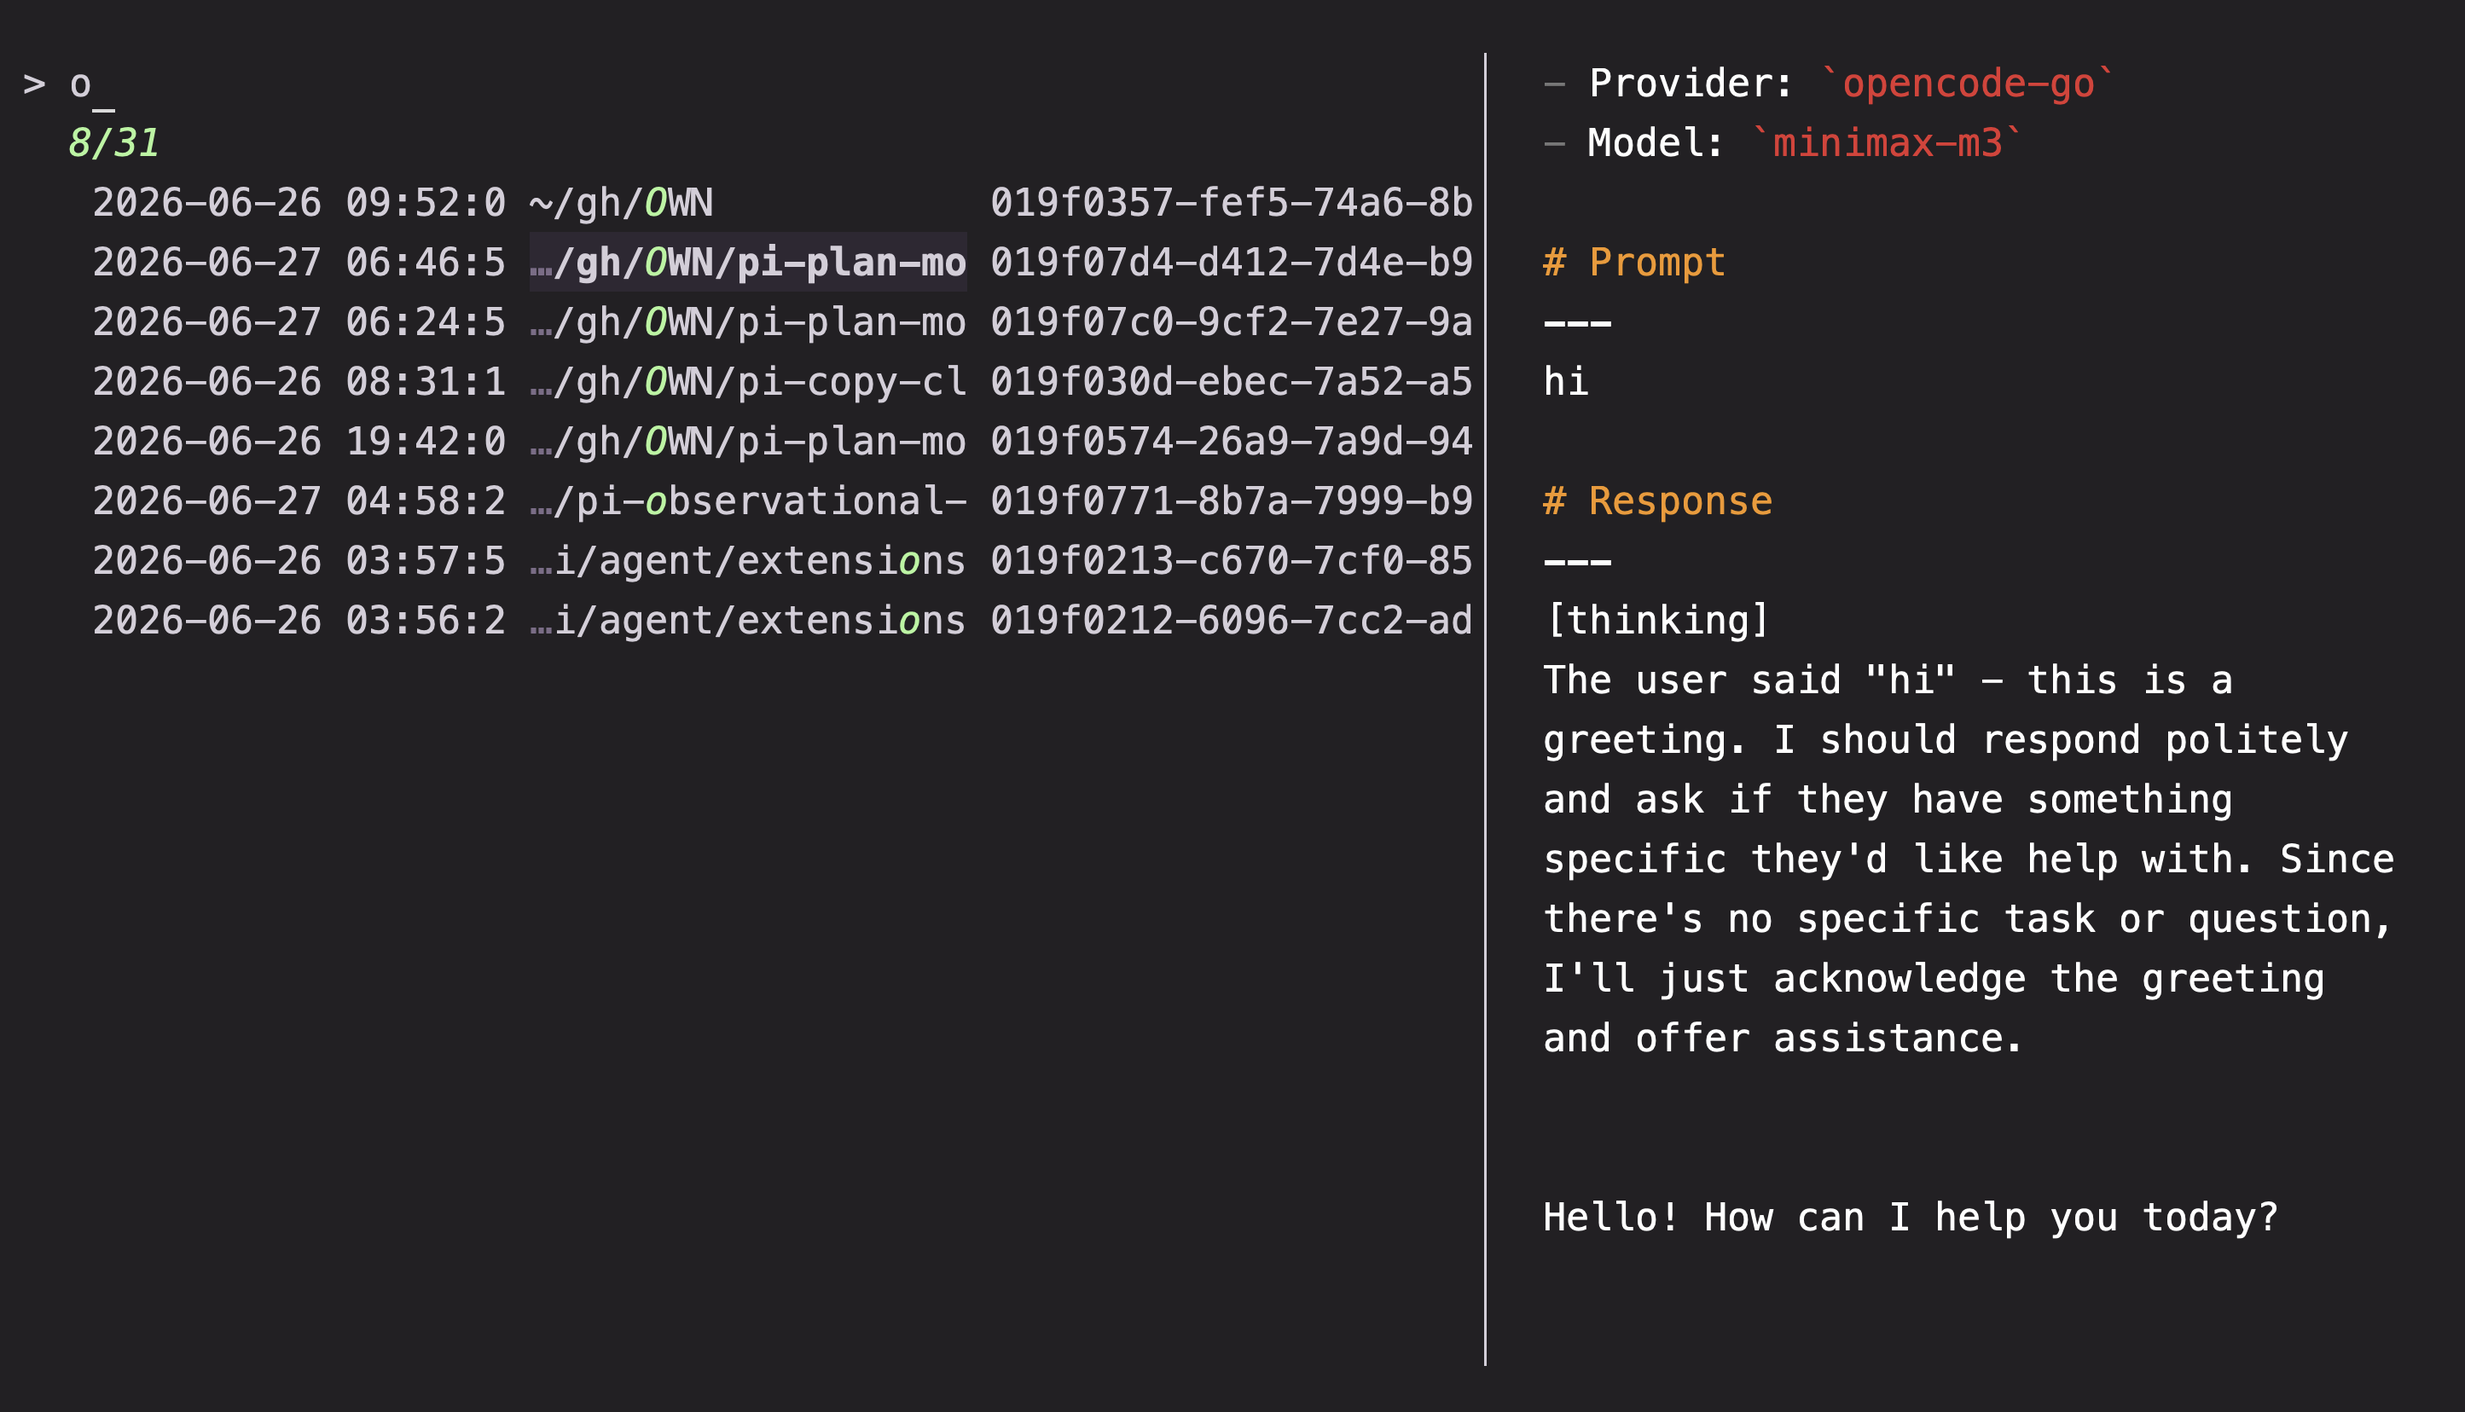
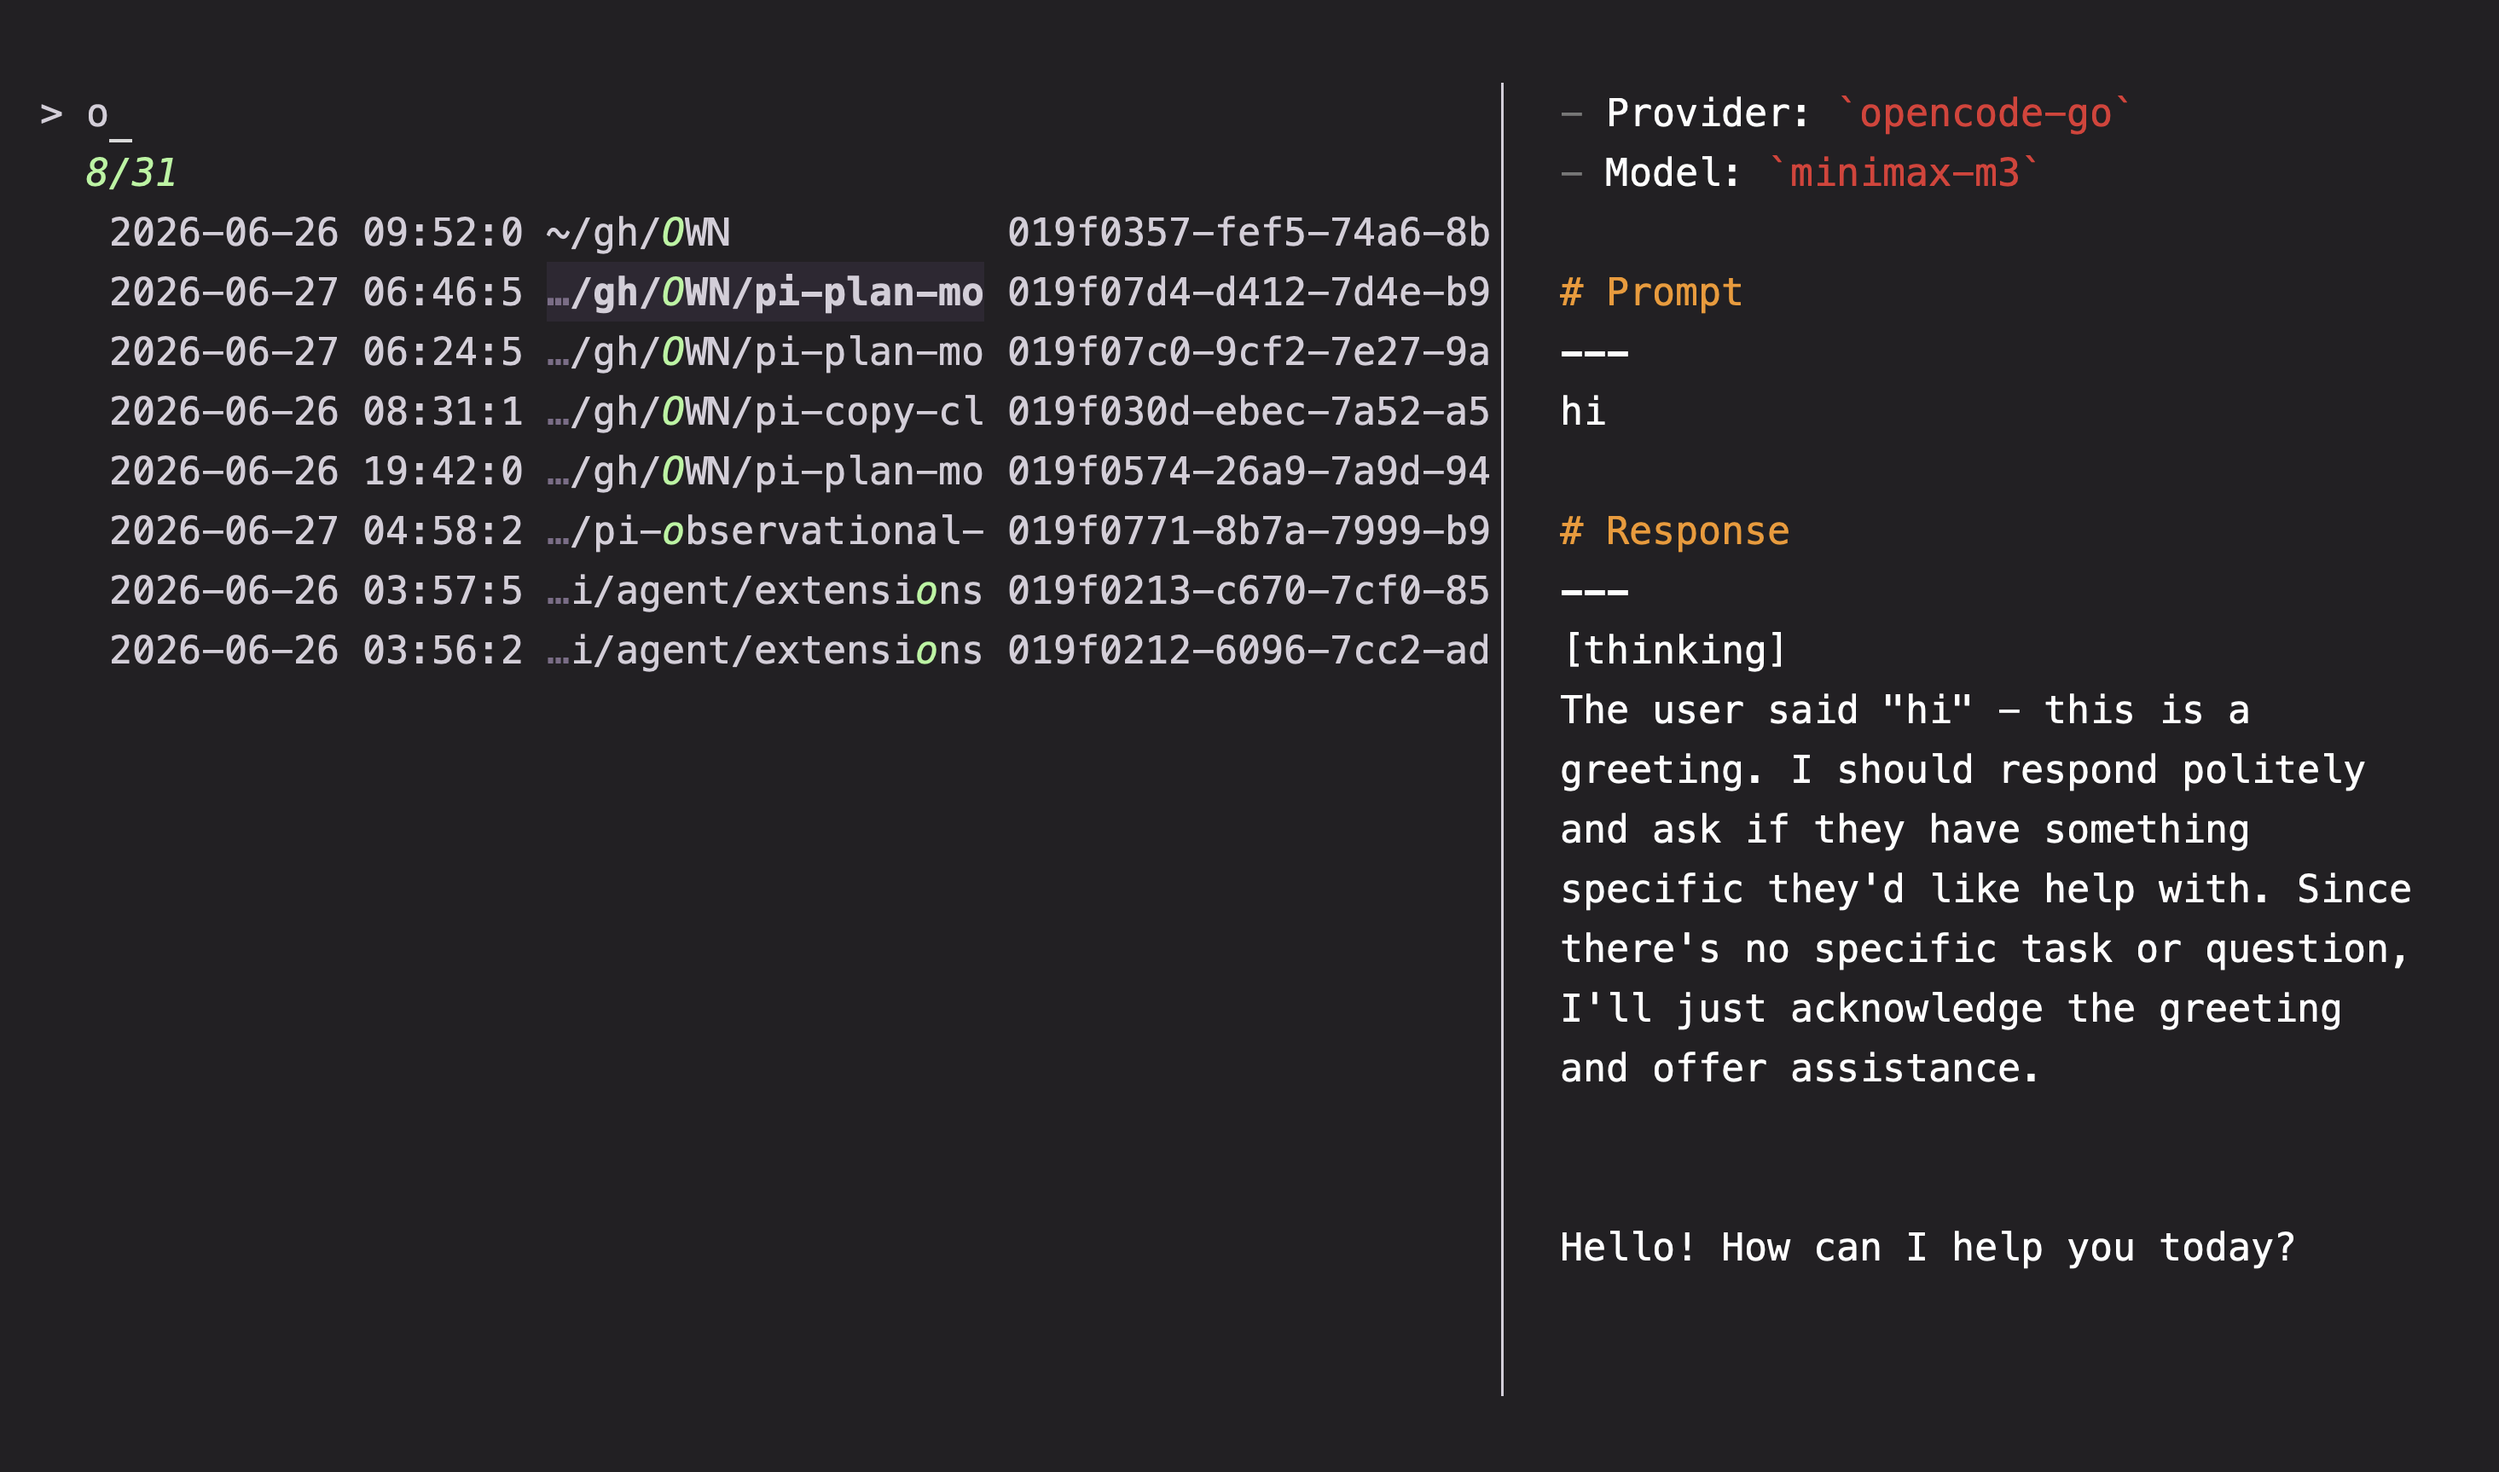
docs: update README

Changed region(s): [[0.0311, 0.0616, 0.9654, 0.7391], [0.6228, 0.0308, 0.8408, 0.1232], [0.6228, 0.8315, 0.9343, 0.8931]]

diff --git a/matchmaker-cli/README.md b/matchmaker-cli/README.md
@@ -202,6 +202,8 @@ mm -o rg
 <img src="https://raw.githubusercontent.com/Squirreljetpack/matchmaker/main/matchmaker-lib/assets/git-restore.png" alt="git-restore" style="width:416px;" /> <img src="https://raw.githubusercontent.com/Squirreljetpack/matchmaker/main/matchmaker-lib/assets/git-grep-help.png" alt="git-help" style="width:416px;" />
 <img src="https://raw.githubusercontent.com/Squirreljetpack/matchmaker/main/matchmaker-lib/assets/ps.png" alt="procs" style="width:416px;" /> <img src="https://raw.githubusercontent.com/Squirreljetpack/matchmaker/main/matchmaker-lib/assets/context.png" alt="image-20260814151029456" style="width:416px" />
 <img src="https://raw.githubusercontent.com/Squirreljetpack/matchmaker/main/matchmaker-lib/assets/docker-containers.png" alt="docker-containers" style="width:416px;" /> <img src="https://github.com/Squirreljetpack/matchmaker/blob/main/matchmaker-cli/assets/presets/unicode/.README.assets/unicode-square.png?raw=true" alt="unicode" style="width:416px" />
+<img src="https://github.com/Squirreljetpack/matchmaker/blob/main/matchmaker-cli/assets/presets/ai/.README.assets/image-20260627143155886.png?raw=true" alt="pi session picker" style="width:416px;" /> <img src="https://github.com/Squirreljetpack/matchmaker/blob/main/matchmaker-cli/assets/presets/macos/.README.assets/prefpanes.png?raw=true" alt="system-prefs" style="width:416px;" />
+
 
 <video src="https://raw.githubusercontent.com/Squirreljetpack/matchmaker/main/matchmaker-lib/assets/webm/git.mp4" controls width="416"></video>
 

diff --git a/matchmaker-cli/assets/presets/terminal/README.md b/matchmaker-cli/assets/presets/terminal/README.md
@@ -52,6 +52,8 @@ top-level `tab` block; swap variants skipped). Extra layout names can be passed
 as arguments to `zellij.sh layouts` to include them; a bare name resolves to
 the user layout dir first, then zellij's built-ins.
 
+<img src=".README.assets/Screenshot 2026-08-14 at 12.34.23 AM.png" alt="Screenshot 2026-08-14 at 12.34.23 AM" style="width:416px;" />
+
 ## Mutagen session picker
 
 ### `mutagen` -- inspect and manage Mutagen sync sessions
@@ -68,5 +70,3 @@ the user layout dir first, then zellij's built-ins.
 - `ctrl-d` (`@rm`): terminate session (with confirmation)
 - main preview: `mutagen sync list <name>`
 - secondary previews: detailed info (`-l`), conflicting files list
-
-<img src=".README.assets/Screenshot 2026-08-14 at 12.34.23 AM.png" alt="Screenshot 2026-08-14 at 12.34.23 AM" style="zoom:33%;" />
